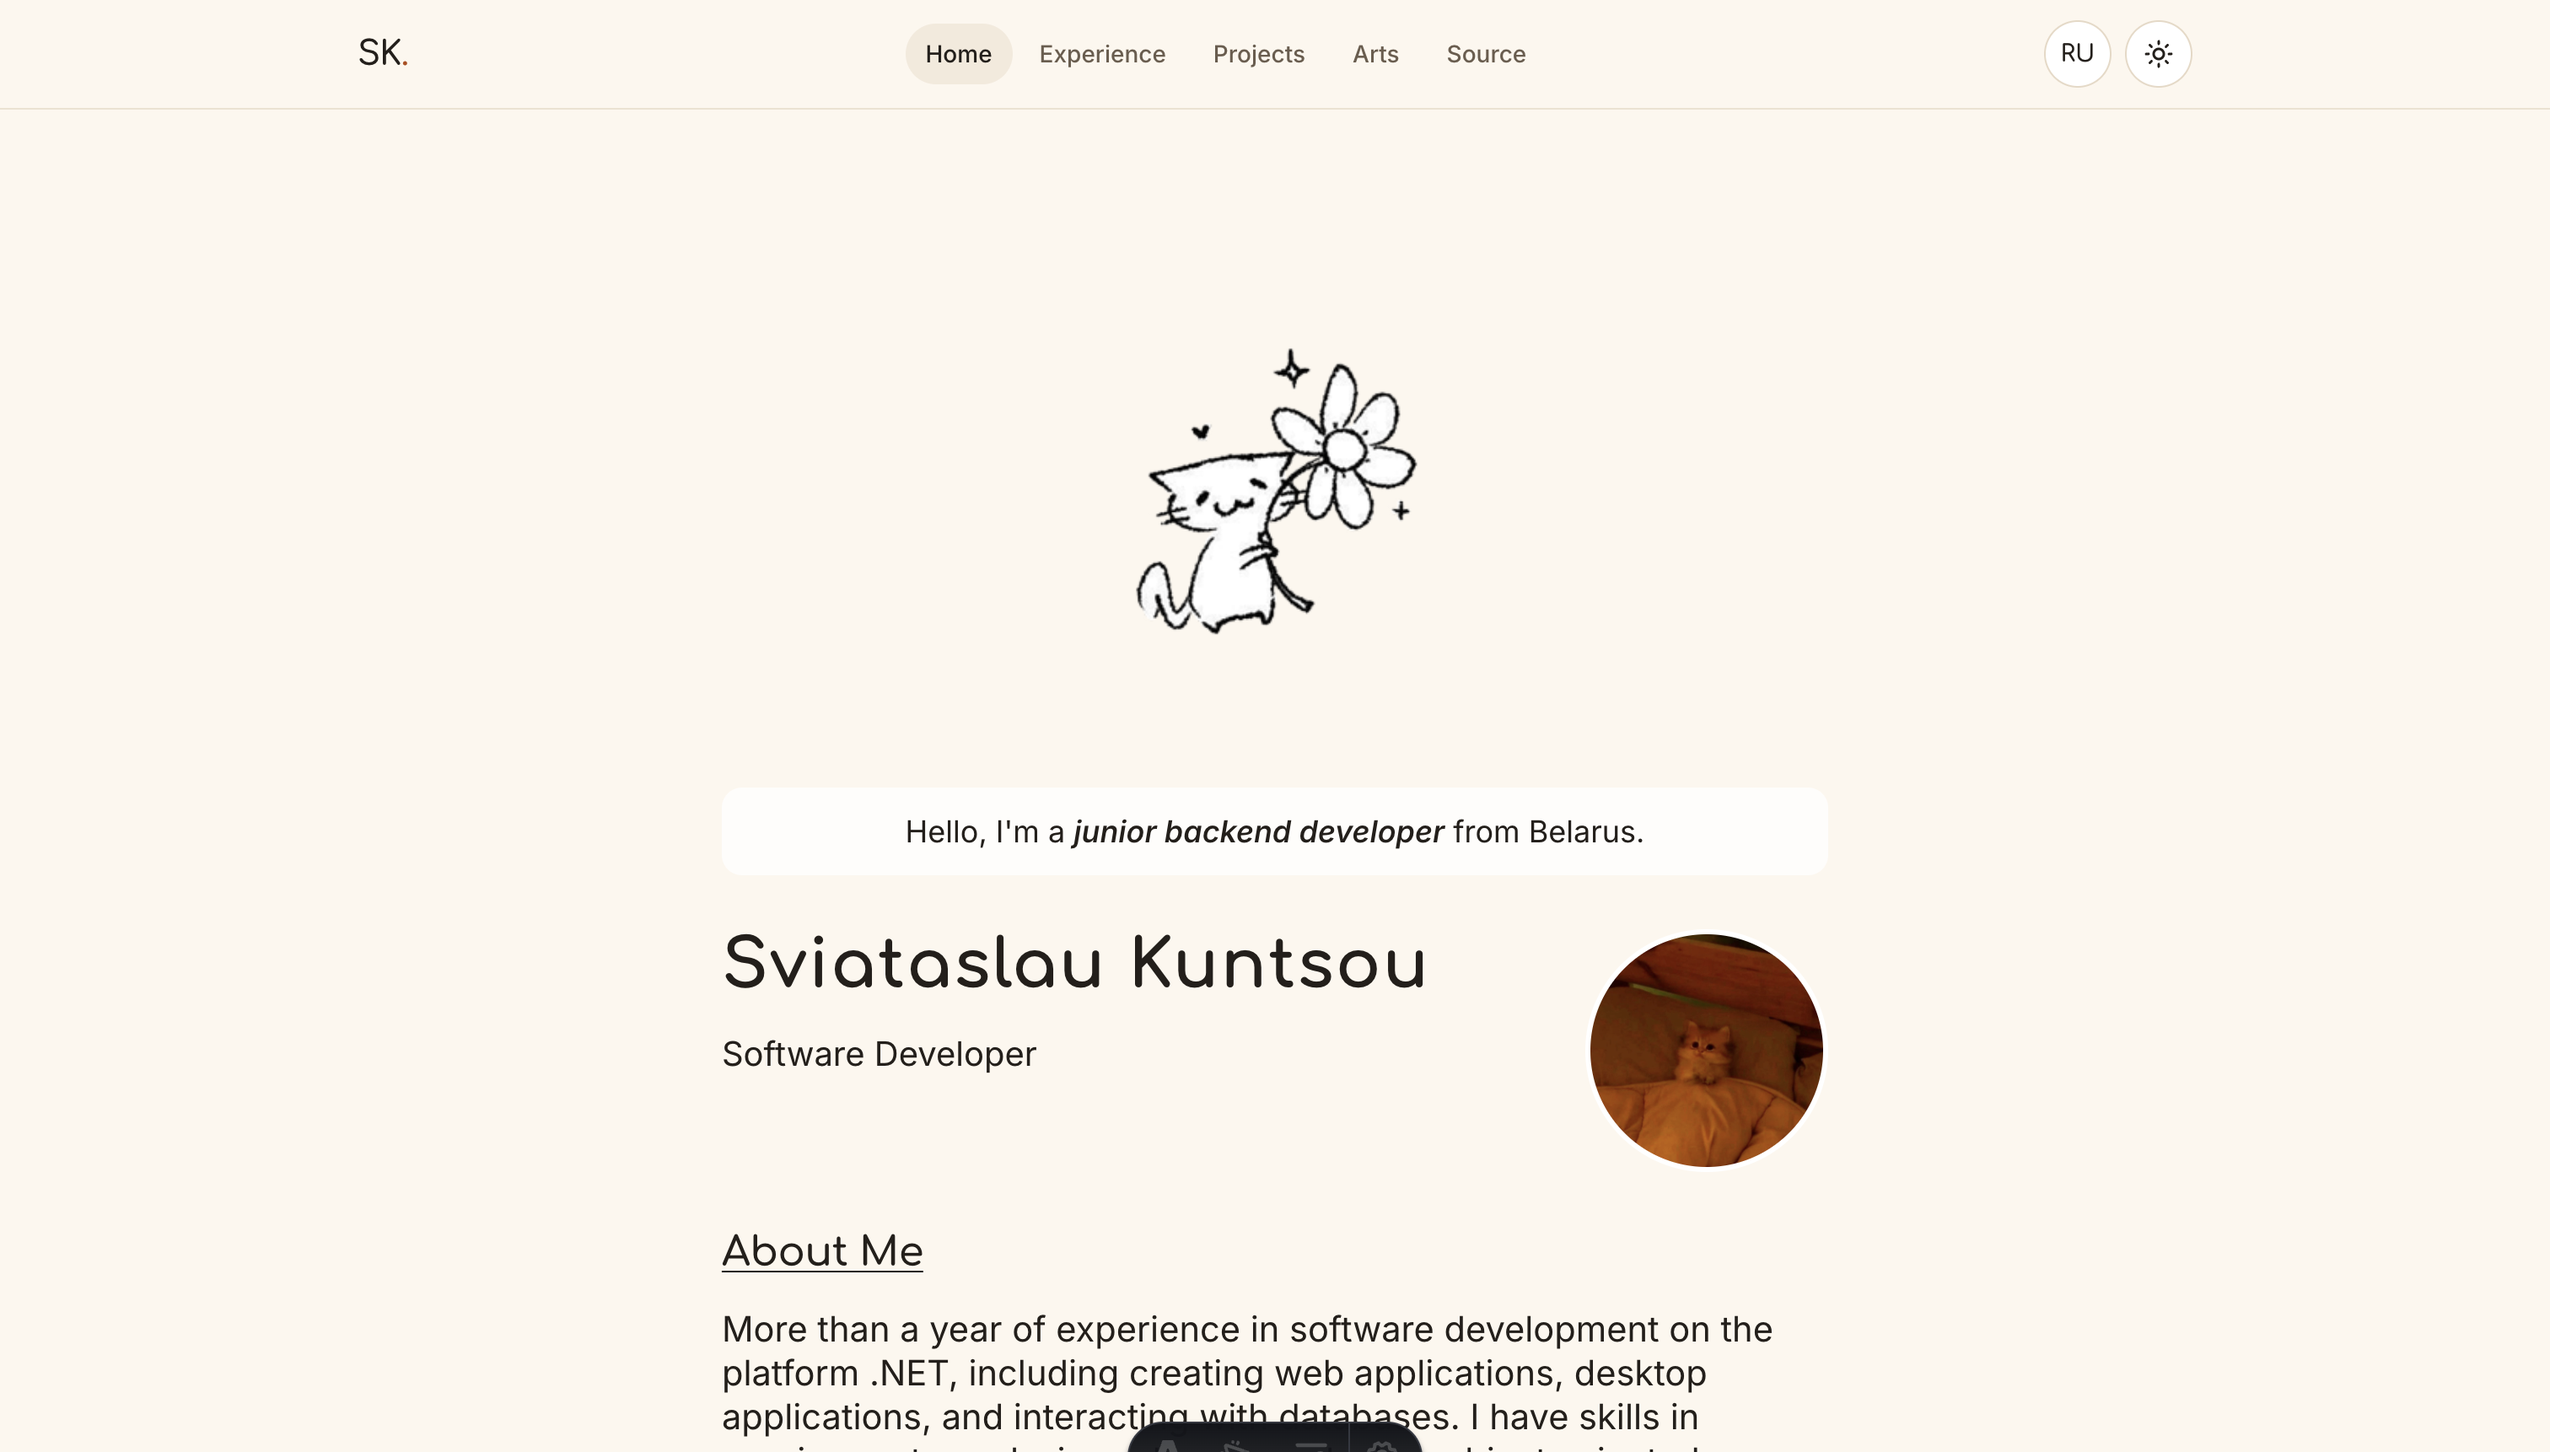
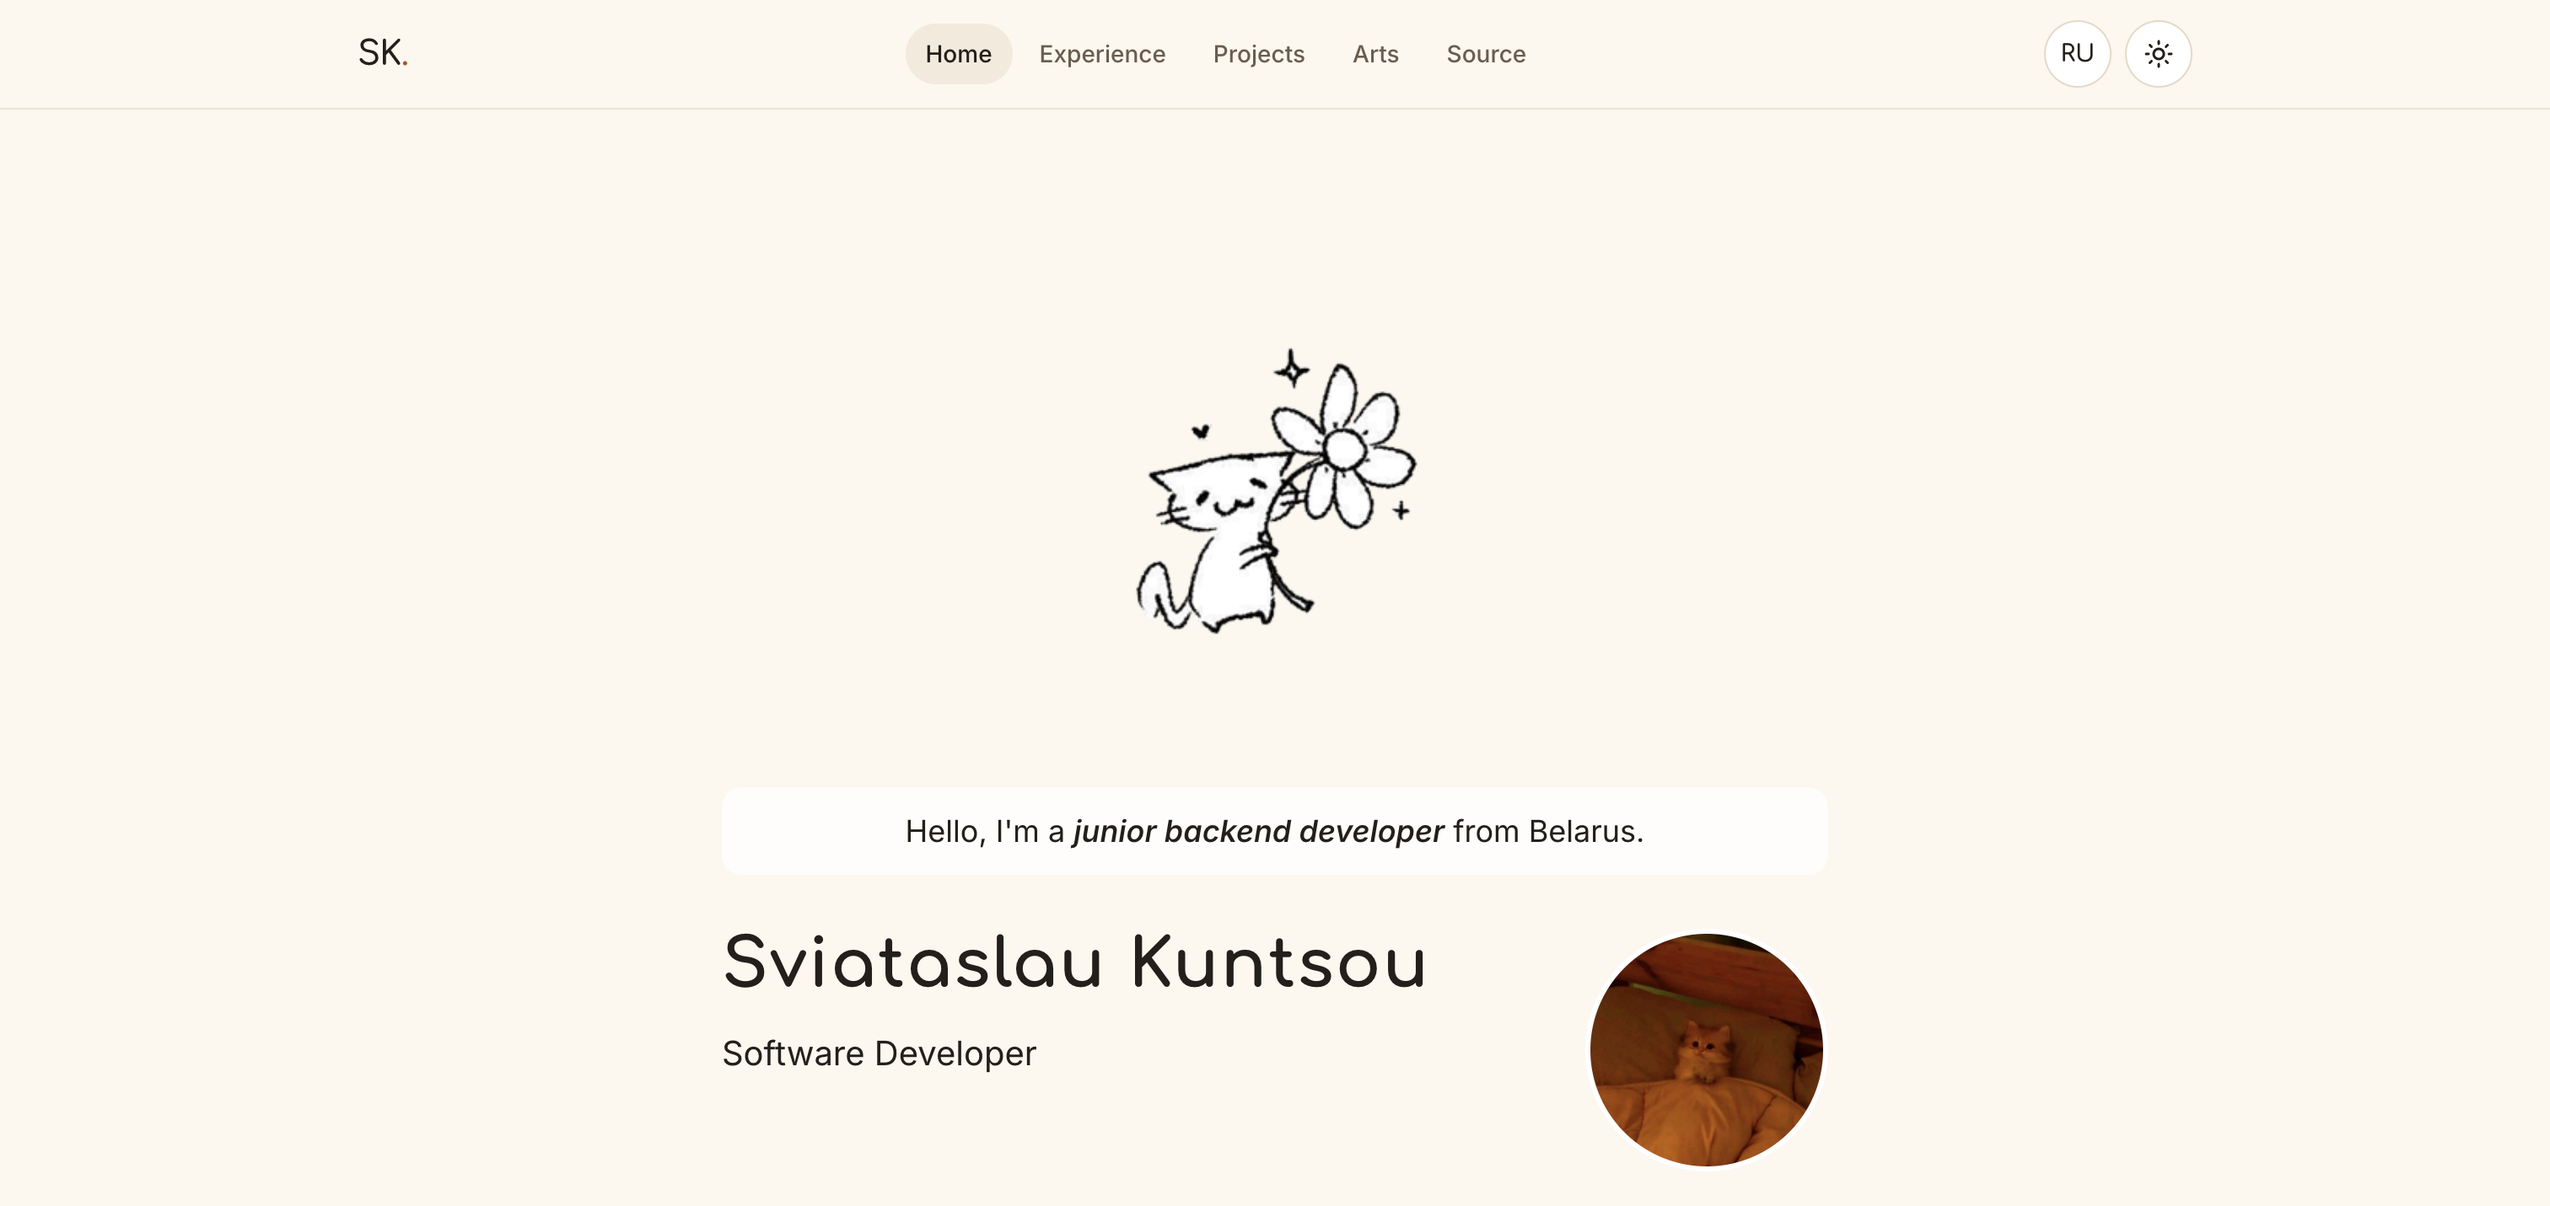
chore: change cover image for astro project, clear .md

diff --git a/src/content/projects/ru/astro-homepage.md b/src/content/projects/ru/astro-homepage.md
@@ -2,10 +2,7 @@
 title: Сайт-портфолио
 # summary: Портфолио и резюме на Astro, где тема и язык верны с первого кадра.
 summary: null
-cover: /images/arts2/art1.png
-images:
-  - /images/arts2/art1.png
-  - /images/arts2/art2.png
+cover: /images/projects/astro-homepage/cover copy.png
 links:
   live: https://slava-homepage.vercel.app
   github: https://github.com/SlavaKuntsov/astro-homepage
@@ -13,7 +10,5 @@ visibility: public
 featured: true
 githubRepo: SlavaKuntsov/astro-homepage
 ---
-
-<!-- Placeholder project: the content-migration ticket (#14) replaces it, including the placeholder images. -->
 
 Сайт, который вы читаете. Он собран на Astro без React, отдаёт статический HTML и почти не грузит JavaScript на клиент. Тему и язык сервер и крошечный блокирующий скрипт в `<head>` разрешают до первой отрисовки, поэтому переключение не мигает.

diff --git a/src/content/projects/en/astro-homepage.md b/src/content/projects/en/astro-homepage.md
@@ -2,10 +2,7 @@
 title: Portfolio Site
 # summary: A fast Astro portfolio where the theme and Locale are right on the first frame.
 summary: null
-cover: /images/projects/astro-homepage/cover copy.png
-# images:
-#   - /images/arts2/art1.png
-#   - /images/arts2/art2.png
+cover: /images/projects/astro-homepage/cover.png
 links:
   live: https://slava-homepage.vercel.app
   github: https://github.com/SlavaKuntsov/astro-homepage
@@ -13,7 +10,5 @@ visibility: public
 featured: true
 githubRepo: SlavaKuntsov/astro-homepage
 ---
-
-<!-- Placeholder project: the content-migration ticket (#14) replaces it, including the placeholder images. -->
 
 The site you are reading. It is built with Astro, no React, and ships static HTML with almost no client JavaScript. The Theme and Locale are resolved by the server and a tiny blocking script in `<head>` before the first paint, so switching never flashes.

diff --git a/src/content/projects/ru/flowix.md b/src/content/projects/ru/flowix.md
@@ -14,6 +14,4 @@ featured: true
 githubRepo: SlavaKuntsov/flowix
 ---
 
-<!-- Placeholder project: the content-migration ticket (#14) replaces it, including the placeholder images. -->
-
 Flowix — это альтернатива YouTube и Vimeo с открытым исходным кодом, которую можно разместить на собственном сервере. Она ориентирована на потоковую передачу с адаптивным битрейтом (HLS), плавное переключение качества и масштабируемую обработку видео. Загрузка → транскодирование (FFmpeg) → потоковая передача через nginx-vod — все это организовано с помощью RabbitMQ и хранилища, совместимого с S3.

diff --git a/src/content/projects/ru/private-crm.md b/src/content/projects/ru/private-crm.md
@@ -8,6 +8,4 @@ stack:
 visibility: private
 ---
 
-<!-- Placeholder project: the content-migration ticket (#14) replaces it. A private Project is described in text and image without a public link. -->
-
 Внутренняя CRM для логистической компании: диспетчеры ведут заявки, строят маршруты и сверяют расчёты. Исходный код закрыт, поэтому проект описан текстом и скриншотами без ссылки на репозиторий.

diff --git a/src/content/projects/en/flowix.md b/src/content/projects/en/flowix.md
@@ -14,6 +14,4 @@ featured: true
 githubRepo: SlavaKuntsov/flowix
 ---
 
-<!-- Placeholder project: the content-migration ticket (#14) replaces it, including the placeholder images. -->
-
 Flowix is an open-source, self-hostable alternative to YouTube/Vimeo focused on adaptive bitrate streaming (HLS), seamless quality switching and scalable video processing. Upload → transcode (FFmpeg) → stream via nginx-vod — all orchestrated with RabbitMQ and S3-compatible storage.

diff --git a/src/content/projects/en/private-crm.md b/src/content/projects/en/private-crm.md
@@ -8,6 +8,4 @@ stack:
 visibility: private
 ---
 
-<!-- Placeholder project: the content-migration ticket (#14) replaces it. A private Project is described in text and image without a public link. -->
-
 An internal CRM for a logistics company: dispatchers track orders, plan routes, and reconcile billing. The source is closed, so the Project is described in text and screenshots without a repository link.
